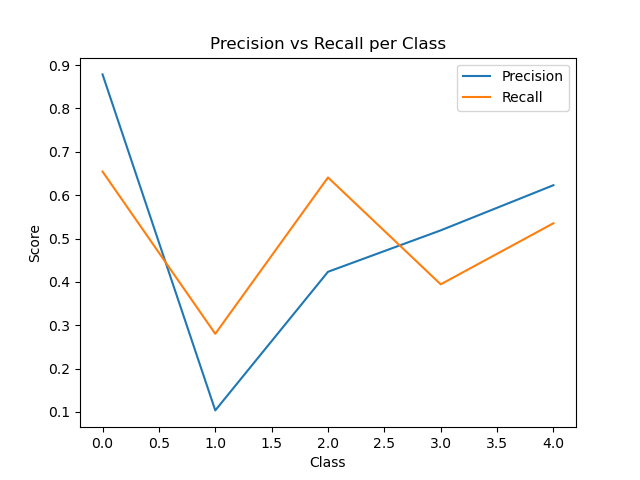
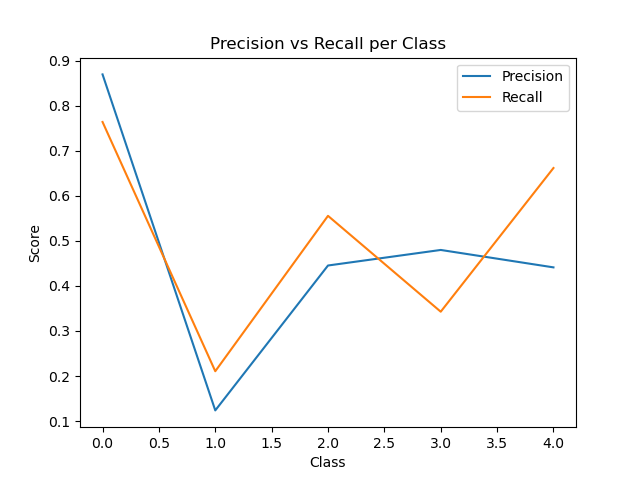
correct rent model and added resnet model

diff --git a/ensemble_model.py b/ensemble_model.py
@@ -1,0 +1,255 @@
+import os
+import csv
+import torch
+import numpy as np
+import pandas as pd
+import torch.nn as nn
+from PIL import Image
+from tqdm import tqdm
+from torch.utils.data import Dataset, DataLoader, WeightedRandomSampler
+from torchvision import transforms, models
+from torchvision.models import efficientnet_b0
+from sklearn.model_selection import train_test_split
+from sklearn.metrics import (
+    accuracy_score,
+    precision_score,
+    recall_score,
+    f1_score,
+    cohen_kappa_score
+)
+import matplotlib.pyplot as plt
+
+# ---------------- CONFIG ----------------
+DATA_PATH = "/home/hornet/dataset_folders/retinopathy_dataset2/archive/resized_train/resized_train"
+CSV_PATH = "/home/hornet/dataset_folders/retinopathy_dataset2/archive/trainLabels.csv"
+
+BATCH_SIZE = 8
+EPOCHS = 15
+NUM_CLASSES = 5
+DEVICE = torch.device("cuda" if torch.cuda.is_available() else "cpu")
+
+os.makedirs("outputs", exist_ok=True)
+
+# ---------------- LOAD DATA ----------------
+df = pd.read_csv(CSV_PATH)
+df["image"] = df["image"].apply(lambda x: os.path.join(DATA_PATH, x + ".jpeg"))
+df.rename(columns={"level": "label"}, inplace=True)
+
+train_df, val_df = train_test_split(df, test_size=0.2, stratify=df["label"])
+
+# ---------------- DATASET ----------------
+class RetinoDataset(Dataset):
+    def __init__(self, df, transform=None):
+        self.df = df.reset_index(drop=True)
+        self.transform = transform
+
+    def __len__(self):
+        return len(self.df)
+
+    def __getitem__(self, idx):
+        img_path = self.df.loc[idx, "image"]
+        label = self.df.loc[idx, "label"]
+
+        image = Image.open(img_path).convert("RGB")
+
+        if self.transform:
+            image = self.transform(image)
+
+        return image, label
+
+# ---------------- TRANSFORMS ----------------
+transform = transforms.Compose([
+    transforms.Resize((224, 224)),
+    transforms.ToTensor(),
+])
+
+train_dataset = RetinoDataset(train_df, transform)
+val_dataset = RetinoDataset(val_df, transform)
+
+# ---------------- SAMPLER ----------------
+labels = train_df["label"].values
+class_sample_count = np.bincount(labels)
+weights = 1. / class_sample_count
+samples_weight = weights[labels]
+
+sampler = WeightedRandomSampler(samples_weight, len(samples_weight))
+
+train_loader = DataLoader(train_dataset, batch_size=BATCH_SIZE, sampler=sampler)
+val_loader = DataLoader(val_dataset, batch_size=BATCH_SIZE, shuffle=False)
+
+# ---------------- MODELS ----------------
+def get_models():
+    eff = efficientnet_b0(pretrained=True)
+    eff.classifier[1] = nn.Linear(eff.classifier[1].in_features, NUM_CLASSES)
+
+    res = models.resnet50(pretrained=True)
+    res.fc = nn.Linear(res.fc.in_features, NUM_CLASSES)
+
+    return eff.to(DEVICE), res.to(DEVICE)
+
+efficient_model, resnet_model = get_models()
+
+criterion = nn.CrossEntropyLoss()
+optimizer_eff = torch.optim.Adam(efficient_model.parameters(), lr=0.0003)
+optimizer_res = torch.optim.Adam(resnet_model.parameters(), lr=0.0003)
+
+# ---------------- CSV INIT ----------------
+csv_file = "outputs/metrics.csv"
+
+with open(csv_file, mode='w', newline='') as file:
+    writer = csv.writer(file)
+    writer.writerow([
+        "Epoch",
+
+        "ResNet_Acc", "ResNet_Kappa", "ResNet_Precision", "ResNet_Recall", "ResNet_F1",
+        "EffNet_Acc", "EffNet_Kappa", "EffNet_Precision", "EffNet_Recall", "EffNet_F1",
+        "Ensemble_Acc", "Ensemble_Kappa", "Ensemble_Precision", "Ensemble_Recall", "Ensemble_F1"
+    ])
+
+# ---------------- TRAIN ----------------
+def train(model, optimizer):
+    model.train()
+    total_loss = 0
+
+    for images, labels in tqdm(train_loader):
+        images, labels = images.to(DEVICE), labels.to(DEVICE)
+
+        optimizer.zero_grad()
+        outputs = model(images)
+        loss = criterion(outputs, labels)
+
+        loss.backward()
+        optimizer.step()
+
+        total_loss += loss.item()
+
+    return total_loss / len(train_loader)
+
+# ---------------- EVALUATE ----------------
+def evaluate_model(model):
+    model.eval()
+    all_preds, all_labels = [], []
+
+    with torch.no_grad():
+        for images, labels in val_loader:
+            images = images.to(DEVICE)
+            labels = labels.to(DEVICE)
+
+            outputs = model(images)
+            _, preds = torch.max(outputs, 1)
+
+            all_preds.extend(preds.cpu().numpy())
+            all_labels.extend(labels.cpu().numpy())
+
+    acc = accuracy_score(all_labels, all_preds)
+    kappa = cohen_kappa_score(all_labels, all_preds)
+    precision = precision_score(all_labels, all_preds, average='macro')
+    recall = recall_score(all_labels, all_preds, average='macro')
+    f1 = f1_score(all_labels, all_preds, average='macro')
+
+    return acc, kappa, precision, recall, f1
+
+# ---------------- ENSEMBLE ----------------
+def evaluate_ensemble(models):
+    all_preds, all_labels = [], []
+
+    with torch.no_grad():
+        for images, labels in val_loader:
+            images = images.to(DEVICE)
+            labels = labels.to(DEVICE)
+
+            outputs = []
+            for m in models:
+                outputs.append(m(images))
+
+            outputs = torch.mean(torch.stack(outputs), dim=0)
+            _, preds = torch.max(outputs, 1)
+
+            all_preds.extend(preds.cpu().numpy())
+            all_labels.extend(labels.cpu().numpy())
+
+    acc = accuracy_score(all_labels, all_preds)
+    kappa = cohen_kappa_score(all_labels, all_preds)
+    precision = precision_score(all_labels, all_preds, average='macro')
+    recall = recall_score(all_labels, all_preds, average='macro')
+    f1 = f1_score(all_labels, all_preds, average='macro')
+
+    return acc, kappa, precision, recall, f1
+
+# ---------------- HISTORY ----------------
+history = {
+    "resnet": {"acc": [], "kappa": [], "f1": []},
+    "efficientnet": {"acc": [], "kappa": [], "f1": []},
+    "ensemble": {"acc": [], "kappa": [], "f1": []}
+}
+
+# ---------------- TRAIN LOOP ----------------
+for epoch in range(EPOCHS):
+
+    print(f"\nEpoch {epoch+1}/{EPOCHS}")
+
+    train(efficient_model, optimizer_eff)
+    train(resnet_model, optimizer_res)
+
+    eff = evaluate_model(efficient_model)
+    res = evaluate_model(resnet_model)
+    ens = evaluate_ensemble([efficient_model, resnet_model])
+
+    # Store
+    history["efficientnet"]["acc"].append(eff[0])
+    history["efficientnet"]["kappa"].append(eff[1])
+    history["efficientnet"]["f1"].append(eff[4])
+
+    history["resnet"]["acc"].append(res[0])
+    history["resnet"]["kappa"].append(res[1])
+    history["resnet"]["f1"].append(res[4])
+
+    history["ensemble"]["acc"].append(ens[0])
+    history["ensemble"]["kappa"].append(ens[1])
+    history["ensemble"]["f1"].append(ens[4])
+
+    # Save CSV
+    with open(csv_file, mode='a', newline='') as file:
+        writer = csv.writer(file)
+        writer.writerow([
+            epoch + 1,
+            res[0], res[1], res[2], res[3], res[4],
+            eff[0], eff[1], eff[2], eff[3], eff[4],
+            ens[0], ens[1], ens[2], ens[3], ens[4]
+        ])
+
+    print(f"EffNet → Acc:{eff[0]:.4f} F1:{eff[4]:.4f}")
+    print(f"ResNet → Acc:{res[0]:.4f} F1:{res[4]:.4f}")
+    print(f"Ensemble → Acc:{ens[0]:.4f} F1:{ens[4]:.4f}")
+
+# ---------------- PLOTS ----------------
+epochs = range(1, EPOCHS + 1)
+
+plt.figure()
+plt.plot(epochs, history["resnet"]["acc"])
+plt.plot(epochs, history["efficientnet"]["acc"])
+plt.plot(epochs, history["ensemble"]["acc"])
+plt.title("Accuracy Comparison")
+plt.legend(["ResNet", "EffNet", "Ensemble"])
+plt.savefig("outputs/accuracy.png")
+plt.close()
+
+plt.figure()
+plt.plot(epochs, history["resnet"]["kappa"])
+plt.plot(epochs, history["efficientnet"]["kappa"])
+plt.plot(epochs, history["ensemble"]["kappa"])
+plt.title("Kappa Comparison")
+plt.legend(["ResNet", "EffNet", "Ensemble"])
+plt.savefig("outputs/kappa.png")
+plt.close()
+
+plt.figure()
+plt.plot(epochs, history["resnet"]["f1"])
+plt.plot(epochs, history["efficientnet"]["f1"])
+plt.plot(epochs, history["ensemble"]["f1"])
+plt.title("F1 Score Comparison")
+plt.legend(["ResNet", "EffNet", "Ensemble"])
+plt.savefig("outputs/f1.png")
+plt.close()
+
+print("\n✅ DONE — Everything saved in /outputs/")

diff --git a/train_diabetes_resnet.py b/train_diabetes_resnet.py
@@ -11,8 +11,8 @@ from torchvision import transforms, models
 from sklearn.model_selection import train_test_split
 from sklearn.metrics import confusion_matrix, classification_report
 from torch.utils.data import WeightedRandomSampler
-from torchvision.models import efficientnet_b0
 import matplotlib.pyplot as plt
+from torchvision.models import resnet18, ResNet18_Weights
 from sklearn.metrics import (
     accuracy_score,
     precision_score,
@@ -79,7 +79,7 @@ val_dataset = RetinoDataset(val_df, transform=val_transform)
 labels = train_df["label"].values
 class_sample_count = np.bincount(labels)
 
-#added weight sampler to handle class imbalance
+# added weight sampler to handle class imbalance
 weights = 1. / class_sample_count
 samples_weight = weights[labels]
 
@@ -88,23 +88,12 @@ sampler = WeightedRandomSampler(samples_weight, len(samples_weight))
 train_loader = DataLoader(train_dataset, batch_size=BATCH_SIZE, sampler=sampler, num_workers=2)
 val_loader = DataLoader(val_dataset, batch_size=BATCH_SIZE, shuffle=False, num_workers=2)
 
-model = models.resnet18(pretrained=True) #if using resnet18
-
-#model = efficientnet_b0(pretrained=True)
-
-#model.classifier[1] = nn.Linear(
-    # model.classifier[1].in_features,
-    #NUM_CLASSES
-#)#for efficientnet_b4
-
-#model.fc = nn.Linear(model.fc.in_features, NUM_CLASSES)#for resnet
-model.classifier[1] = nn.Linear(model.classifier[1].in_features, NUM_CLASSES)#for efficientnet
+# ✅ FIXED MODEL
+model = resnet18(weights=ResNet18_Weights.DEFAULT)
+model.fc = nn.Linear(model.fc.in_features, NUM_CLASSES)
 model = model.to(DEVICE)
 
 class_counts = df["label"].value_counts().sort_index()
-#added weight class
-#weights = 1.0 / class_counts
-#weights = torch.tensor(weights.values, dtype=torch.float).to(DEVICE)
 
 criterion = nn.CrossEntropyLoss()
 optimizer = torch.optim.Adam(model.parameters(), lr=0.0003)
@@ -127,7 +116,6 @@ def train():
 
     return total_loss / len(train_loader)
 
-#updated validate function 
 def validate():
     model.eval()
     total_loss = 0
@@ -179,7 +167,6 @@ def validate():
 
     classes = np.arange(len(precision))
 
-    # 1. Precision vs Recall
     plt.figure()
     plt.plot(classes, precision)
     plt.plot(classes, recall)
@@ -190,7 +177,6 @@ def validate():
     plt.savefig("outputs/precision_vs_recall.png")
     plt.close()
 
-    # 2. Support
     plt.figure()
     plt.plot(classes, support)
     plt.xlabel("Class")
@@ -199,7 +185,6 @@ def validate():
     plt.savefig("outputs/support.png")
     plt.close()
 
-    # 3. Confusion Matrix Heatmap
     plt.figure()
     plt.imshow(cm)
     plt.title("Confusion Matrix")
